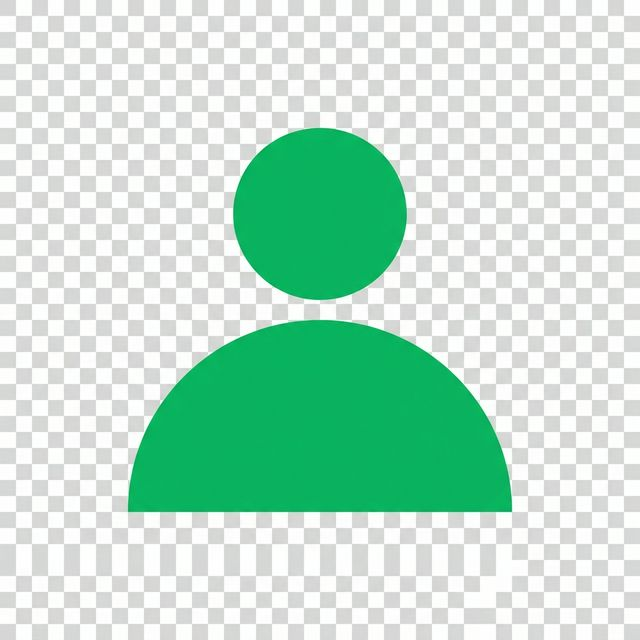
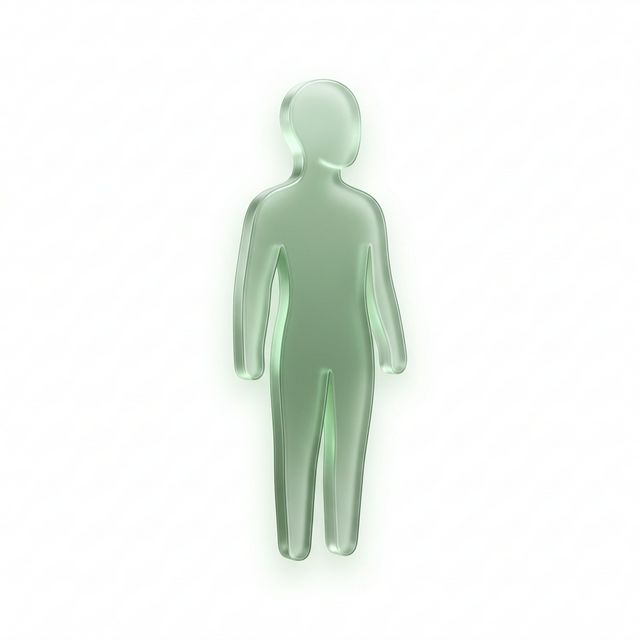
🎈 perf(main): 优化

diff --git a/src/pages/mine/index.scss b/src/pages/mine/index.scss
@@ -9,17 +9,9 @@
   .mine-content {
     position: relative;
     z-index: 10;
-    padding-bottom: 200px;
-
-    &::-webkit-scrollbar {
-      display: block !important;
-      width: 6px !important;
-      background: rgba(168, 213, 186, 0.05);
-    }
-    &::-webkit-scrollbar-thumb {
-      background: rgba(168, 213, 186, 0.3) !important;
-      border-radius: 10px;
-    }
+    flex: 1;
+    overflow-y: auto;
+    padding-bottom: 140px;
   }
 
   .user-card {
@@ -111,9 +103,14 @@
       box-shadow: 0 10px 20px rgba(168, 213, 186, 0.08);
 
       .card-icon {
-        font-size: 36px;
-        margin-bottom: 16px;
-        filter: drop-shadow(0 4px 10px rgba(168, 213, 186, 0.3));
+        width: 52px;
+        height: 52px;
+        margin-bottom: 20px;
+        background-color: #a8d5ba;
+
[3 lines of base64/hex data omitted]
       }
       .card-value {
         font-size: 32px;
@@ -158,8 +155,14 @@
         gap: 24px;
 
         .menu-icon {
-          font-size: 38px;
-          filter: grayscale(1) opacity(0.5);
+          width: 38px;
+          height: 38px;
+          background-color: #bdc3c7;
+          
[4 lines of base64/hex data omitted]
         }
         .menu-title {
           font-size: 30px;

diff --git a/src/custom-tab-bar/index.scss b/src/custom-tab-bar/index.scss
@@ -3,14 +3,10 @@
   bottom: 0;
   left: 0;
   right: 0;
-  height: 100px; /* 适当减小高度提升比例平衡感 */
-  background: hsla(0, 0%, 100%, 0.7);
-  backdrop-filter: blur(25px);
-  -webkit-backdrop-filter: blur(25px);
+  height: 120px;
+  background: transparent; // 完全透明底
   display: flex;
   padding-bottom: env(safe-area-inset-bottom);
-  border-top: 1px solid hsla(0, 0%, 100%, 0.5);
-  box-shadow: 0 -10px 40px hsla(0, 0%, 0%, 0.05); /* 增加微妙的上浮阴影 */
   z-index: 1000;
 
   .tab-item {
@@ -20,42 +16,45 @@
     align-items: center;
     justify-content: center;
     position: relative;
-    padding-top: 15px; /* 确保垂直居中偏上，留出呼吸感 */
+    padding-top: 10px;
 
-    .tab-icon {
-      width: 44px; /* 轻微调整图标尺寸 */
-      height: 44px;
+    .tab-icon-mask {
+      width: 52px;
+      height: 52px;
       margin-bottom: 6px;
-      transition: all 0.4s cubic-bezier(0.23, 1, 0.32, 1);
+      background-color: #bdc3c7; // 默认灰色
+      transition: all 0.4s cubic-bezier(0.175, 0.885, 0.32, 1.275);
+      
+      &.resonance {
[2 lines of base64/hex data omitted]
+        mask-size: contain;
+      }
+      
+      &.mine {
[2 lines of base64/hex data omitted]
+        mask-size: contain;
+      }
     }
 
     .tab-text {
-      font-size: 18px; /* 字体微调更显精致 */
-      color: hsla(16, 18%, 49%, 0.8);
-      transition: all 0.3s;
+      font-size: 20px;
+      color: #bdc3c7;
+      font-weight: 300;
+      letter-spacing: 2px;
     }
 
     &.active {
-      .tab-icon {
-        transform: translateY(-8px);
-        filter: drop-shadow(0 4px 10px hsla(16, 25%, 38%, 0.2));
+      .tab-icon-mask {
+        background-color: #a8d5ba; // 激活色
+        transform: translateY(-4px) scale(1.1);
+        box-shadow: 0 10px 20px rgba(168, 213, 186, 0.2);
       }
       .tab-text {
-        color: hsl(16, 25%, 29%);
+        color: #a8d5ba;
         font-weight: 500;
-        letter-spacing: 1px;
       }
-    }
-
-    .tab-active-dot {
-      position: absolute;
-      bottom: 22px;
-      width: 6px;
-      height: 6px;
-      background: hsl(16, 25%, 29%);
-      border-radius: 50%;
-      box-shadow: 0 4px 12px hsla(16, 25%, 29%, 0.4);
-      animation: dotPop 0.5s cubic-bezier(0.19, 1, 0.22, 1);
     }
   }
 }

diff --git a/src/pages/mine/index.tsx b/src/pages/mine/index.tsx
@@ -26,9 +26,9 @@ export default function Mine() {
   });
 
   const soulInsights = [
-    { label: '共鸣次数', value: stats.resonance, icon: '🫧' },
-    { label: '灵魂印记', value: stats.insight, icon: '✨' },
-    { label: '平静指数', value: stats.calm, icon: '🌿' },
+    { label: '共鸣次数', value: stats.resonance, iconClass: 'icon-resonance' },
+    { label: '灵魂印记', value: stats.insight, iconClass: 'icon-insight' },
+    { label: '平静指数', value: stats.calm, iconClass: 'icon-calm' },
   ];
 
   const handleItemClick = (title: string) => {
@@ -46,17 +46,17 @@ export default function Mine() {
   };
 
   const menuItems = [
-    { title: '我的共鸣历史', icon: '⌛' },
-    { title: '共鸣空间配置', icon: '⚙' },
-    { title: '灵魂感应手册', icon: '📖' },
-    { title: '关于灵魂共鸣', icon: '🕊' },
+    { title: '我的共鸣历史', iconClass: 'icon-history' },
+    { title: '共鸣空间配置', iconClass: 'icon-config' },
+    { title: '灵魂感应手册', iconClass: 'icon-guide' },
+    { title: '关于灵魂共鸣', iconClass: 'icon-about' },
   ];
 
   return (
     <View className='mine-page'>
       <ZenBackground color='#FDFCFB' intensity={0.2} speed={0.1} />
       
-      <ScrollView className='mine-content' scrollY showScrollbar={true} enhanced>
+      <ScrollView className='mine-content' scrollY showScrollbar={false} enhanced>
         {/* 用户信息卡片 (高阶极简) */}
         <View className='user-card'>
           <View className='avatar-container'>
@@ -76,7 +76,7 @@ export default function Mine() {
         <View className='stats-grid'>
           {soulInsights.map((item, idx) => (
             <View key={idx} className='stat-card'>
-              <View className='card-icon'>{item.icon}</View>
+              <View className={`card-icon ${item.iconClass}`} />
               <Text className='card-value'>{item.value}</Text>
               <Text className='card-label'>{item.label}</Text>
             </View>
@@ -88,7 +88,7 @@ export default function Mine() {
           {menuItems.map((item, idx) => (
             <View key={idx} className='menu-item' onClick={() => handleItemClick(item.title)}>
               <View className='menu-left'>
-                <Text className='menu-icon'>{item.icon}</Text>
+                <View className={`menu-icon ${item.iconClass}`} />
                 <Text className='menu-title'>{item.title}</Text>
               </View>
               <View className='menu-arrow-icon' />

diff --git a/src/custom-tab-bar/index.tsx b/src/custom-tab-bar/index.tsx
@@ -1,6 +1,6 @@
 import { useState, useCallback, useEffect } from 'react';
 import Taro from '@tarojs/taro';
-import { View, Image, Text } from '@tarojs/components';
+import { View, Text } from '@tarojs/components';
 import './index.scss';
 
 export default function CustomTabBar() {
@@ -9,15 +9,15 @@ export default function CustomTabBar() {
   const list = [
     {
       pagePath: '/pages/index/index',
-      text: '首页',
-      iconPath: '/assets/images/tab-home.png',
-      selectedIconPath: '/assets/images/tab-home-active.png'
+      text: '共鸣',
+      iconPath: '../assets/images/tab-resonance.png',
+      selectedIconPath: '../assets/images/tab-resonance-active.png'
     },
     {
       pagePath: '/pages/mine/index',
-      text: '共鸣',
-      iconPath: '/assets/images/tab-mine.png',
-      selectedIconPath: '/assets/images/tab-mine-active.png'
+      text: '我的',
+      iconPath: '../assets/images/tab-mine.png',
+      selectedIconPath: '../assets/images/tab-mine-active.png'
     }
   ];
 
@@ -55,10 +55,7 @@ export default function CustomTabBar() {
           className={`tab-item ${selected === index ? 'active' : ''}`}
           onClick={() => switchTab(index, item.pagePath)}
         >
-          <Image 
-            className='tab-icon'
-            src={selected === index ? item.selectedIconPath : item.iconPath} 
-          />
+          <View className={`tab-icon-mask ${index === 0 ? 'resonance' : 'mine'}`} />
           <Text className='tab-text'>{item.text}</Text>
         </View>
       ))}

diff --git a/src/pages/index/index.tsx b/src/pages/index/index.tsx
@@ -95,6 +95,11 @@ export default function Index() {
   const handleNextRound = useCallback(async () => {
     if (!thought.trim() || loading) return;
 
+    if (roundIndex >= 30) {
+      Taro.showToast({ title: '本次共鸣已达上限，感谢这份深度的连接。', icon: 'none' });
+      return;
+    }
+
     setLoading(true);
     const userMsg = { role: 'user' as const, content: thought };
     const updatedHistory = [...chatHistory, userMsg];
@@ -111,7 +116,7 @@ export default function Index() {
     } finally {
       setLoading(false);
     }
-  }, [chatHistory, thought, loading]);
+  }, [chatHistory, thought, loading, roundIndex]);
 
   const [quote] = useState(() => {
     const quotes = ['每个当下，都是新的开始。', '听，心跳的节奏。', '呼吸间，世界很静。', '温柔地对待自己。'];

diff --git a/src/components/ResonanceTip/index.scss b/src/components/ResonanceTip/index.scss
@@ -52,13 +52,29 @@
       }
     }
 
-    .tip-message {
-      font-size: 32px;
-      color: #2c3e50;
-      font-weight: 500;
-      letter-spacing: 2px;
+    .tip-content {
+      display: flex;
+      flex-direction: column;
+      align-items: center;
+      gap: 16px;
       margin-bottom: 60px;
-      text-align: center;
+      padding: 0 20px;
+
+      .tip-title {
+        font-size: 38px;
+        color: #2c3e50;
+        font-weight: 600;
+        letter-spacing: 4px;
+      }
+
+      .tip-message {
+        font-size: 28px;
+        color: #7f8c8d;
+        font-weight: 300;
+        line-height: 1.6;
+        text-align: center;
+        letter-spacing: 1px;
+      }
     }
 
     .tip-action {

diff --git a/src/app.config.ts b/src/app.config.ts
@@ -22,9 +22,9 @@ export default defineAppConfig({
     list: [
       {
         pagePath: 'pages/index/index',
-        text: '首页',
-        iconPath: './assets/images/tab-home.png',
-        selectedIconPath: './assets/images/tab-home-active.png',
+        text: '共鸣',
+        iconPath: './assets/images/tab-resonance.png',
+        selectedIconPath: './assets/images/tab-resonance-active.png',
       },
       {
         pagePath: 'pages/mine/index',

diff --git a/src/services/aiService.ts b/src/services/aiService.ts
@@ -38,7 +38,7 @@ export const getResonanceResponse = async (messages: { role: 'user' | 'assistant
     任务：与用户开启极简、空灵且具启发性的深度对话。
     按 JSON 回复：
     {
-      "text": "你的回应，40字以内",
+      "text": "你的回应，100字以内",
       "visualTarget": {"color": "hex", "intensity": 0-1, "flowSpeed": 0-1},
       "roundScore": 0-100,
       "isFinal": false

diff --git a/src/pages/index/index.scss b/src/pages/index/index.scss
@@ -359,10 +359,10 @@
 
     .user-input-tray {
       position: fixed;
-      bottom: 0;
+      bottom: calc(100px + env(safe-area-inset-bottom));
       left: 0;
       width: 100%;
-      padding: 40px 40px calc(40px + env(safe-area-inset-bottom));
+      padding: 20px 40px;
       background: linear-gradient(0deg, #fdfcfb 70%, transparent);
       z-index: 110;
 

diff --git a/src/components/ResonanceRhythm/index.scss b/src/components/ResonanceRhythm/index.scss
@@ -27,6 +27,8 @@
     align-items: center;
     transition: transform 0.4s cubic-bezier(0.175, 0.885, 0.32, 1.275);
     cursor: pointer;
+    -webkit-tap-highlight-color: transparent;
+    outline: none;
 
     .resonance-gem-outer {
       width: 220px;

diff --git a/src/app.scss b/src/app.scss
@@ -8,6 +8,7 @@ page {
 
 view, text, scroll-view, input, textarea, image, button {
   box-sizing: border-box;
+  -webkit-tap-highlight-color: transparent;
 }
 
 ::-webkit-scrollbar {
